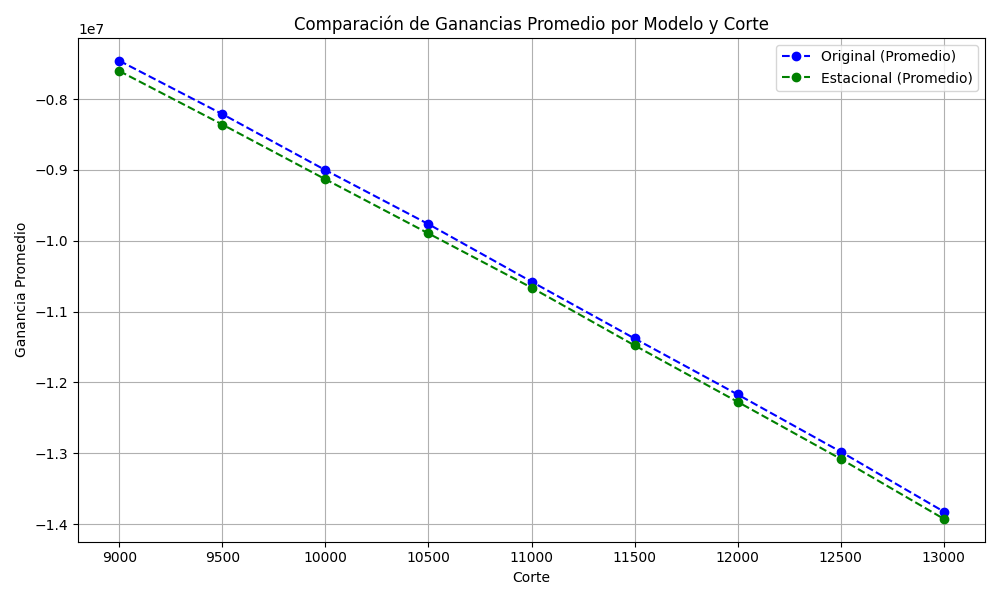
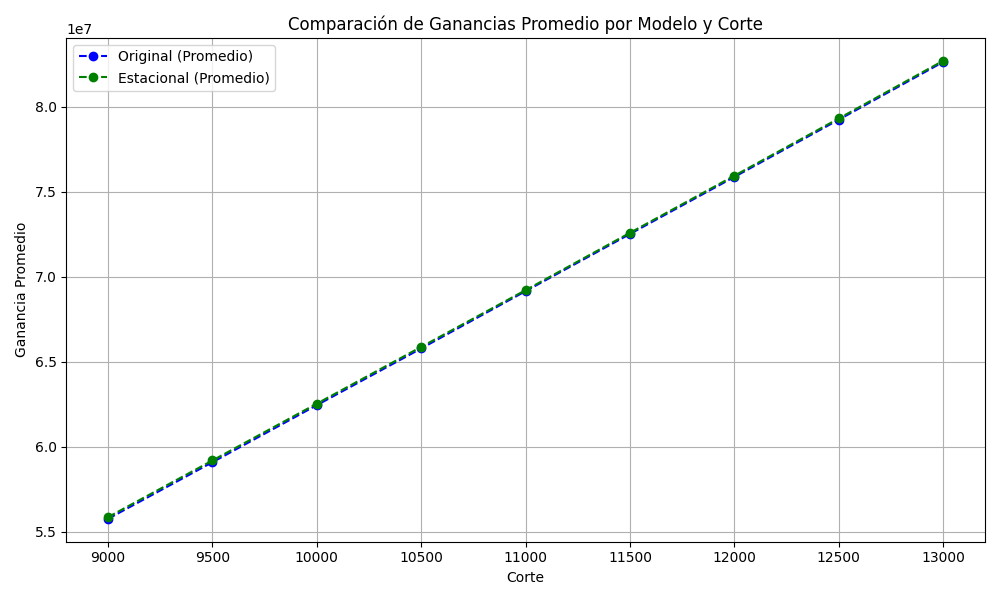
Experimento final

diff --git a/Experimento/j024_comparacion.py b/Experimento/j024_comparacion.py
@@ -3,12 +3,12 @@ import os
 import matplotlib.pyplot as plt
 
 # Rutas y parámetros
-input_dir = "/home/mili_irusta/buckets/b1/exp/KA4210/"  # Directorio con los cortes generados
-dataset_competencia = "/home/mili_irusta/buckets/b1/datasets/competencia_02.csv.gz"  # Archivo de datos reales
+input_dir = "/home/mili_irusta/buckets/b1/exp/KA4210/"
+dataset_competencia = "/home/mili_irusta/buckets/b1/datasets/competencia_02.csv.gz"
 experimento_dir = "/home/mili_irusta/buckets/b1/datasets/dmeyf2024/Experimento/"
-training_month = 202106  # Mes objetivo
-cortes = range(9000, 13001, 500)  # Cortes a evaluar
-semillas = [173717, 481129, 839203, 761081, 594017]  # Semillas utilizadas
+training_month = 202106
+cortes = range(9000, 13001, 500)
+semillas = [173717, 481129, 839203, 761081, 594017]
 
 # Cargar y filtrar los datos reales
 print("Cargando y procesando datos reales...")
@@ -19,81 +19,73 @@ datos_reales = datos_reales[["numero_de_cliente", "clase_real"]]
 print("Distribución de clase_real:")
 print(datos_reales["clase_real"].value_counts())
 
-# Función para calcular la ganancia con detalles de TP y FP
+# Función para calcular la ganancia
 def calcular_ganancia_detallada(data):
     TP = ((data["Predicted"] == 1) & (data["clase_real"] == 1)).sum()
     FP = ((data["Predicted"] == 1) & (data["clase_real"] == 0)).sum()
-    return TP * 7800 - FP * 2000, TP, FP
+    return TP * 273000 - FP * 7000, TP, FP
 
-# Inicializar estructuras para resultados promediados
-ganancias_original_promedio = {corte: [] for corte in cortes}
-ganancias_estacional_promedio = {corte: [] for corte in cortes}
-
-# Listar archivos en el directorio para verificar
-print("Archivos disponibles en el directorio:")
-disponibles = os.listdir(input_dir)
-print(disponibles)
+# Inicializar estructuras para almacenar resultados
+ganancias_semillas_original = {semilla: {corte: None for corte in cortes} for semilla in semillas}
+ganancias_semillas_estacional = {semilla: {corte: None for corte in cortes} for semilla in semillas}
 
 # Procesar cada corte para cada semilla
 for semilla in semillas:
     print(f"Procesando semilla: {semilla}")
     for corte in cortes:
         print(f"Procesando corte: {corte}")
-
-        # Construir nombres de archivos
         file_original = os.path.join(input_dir, f"KA4210_{corte}_original_seed_{semilla}.csv")
         file_estacional = os.path.join(input_dir, f"KA4210_{corte}_estacional_seed_{semilla}.csv")
 
-        # Verificar existencia de archivos
-        if not os.path.exists(file_original):
-            print(f"Archivo no encontrado: {file_original}")
-            continue
-        if not os.path.exists(file_estacional):
-            print(f"Archivo no encontrado: {file_estacional}")
+        if not os.path.exists(file_original) or not os.path.exists(file_estacional):
+            print(f"Archivos no encontrados para corte {corte} y semilla {semilla}")
             continue
 
-        # Cargar predicciones
         predicciones_original = pd.read_csv(file_original)
         predicciones_estacional = pd.read_csv(file_estacional)
 
-        # Unir predicciones con datos reales
         pred_original = predicciones_original.merge(datos_reales, on="numero_de_cliente")
         pred_estacional = predicciones_estacional.merge(datos_reales, on="numero_de_cliente")
 
-        # Calcular ganancias con detalles de TP y FP
-        ganancia_original, tp_original, fp_original = calcular_ganancia_detallada(pred_original)
-        ganancia_estacional, tp_estacional, fp_estacional = calcular_ganancia_detallada(pred_estacional)
+        ganancia_original, _, _ = calcular_ganancia_detallada(pred_original)
+        ganancia_estacional, _, _ = calcular_ganancia_detallada(pred_estacional)
 
-        # Agregar ganancias a la lista por semilla
-        ganancias_original_promedio[corte].append(ganancia_original)
-        ganancias_estacional_promedio[corte].append(ganancia_estacional)
+        ganancias_semillas_original[semilla][corte] = ganancia_original
+        ganancias_semillas_estacional[semilla][corte] = ganancia_estacional
 
-# Calcular promedios por corte, manejando casos donde no hay datos
-ganancias_original = [
-    sum(ganancias_original_promedio[corte]) / len(ganancias_original_promedio[corte])
-    if ganancias_original_promedio[corte] else 0
-    for corte in cortes
-]
-ganancias_estacional = [
-    sum(ganancias_estacional_promedio[corte]) / len(ganancias_estacional_promedio[corte])
-    if ganancias_estacional_promedio[corte] else 0
-    for corte in cortes
-]
+# Crear gráficos comparativos por semilla
+for semilla in semillas:
+    plt.figure(figsize=(10, 6))
+    ganancias_original = [
+        ganancias_semillas_original[semilla][corte] for corte in cortes if ganancias_semillas_original[semilla][corte] is not None
+    ]
+    ganancias_estacional = [
+        ganancias_semillas_estacional[semilla][corte] for corte in cortes if ganancias_semillas_estacional[semilla][corte] is not None
+    ]
+    plt.plot(cortes[:len(ganancias_original)], ganancias_original, label=f"Original (Semilla {semilla})", marker="o", linestyle="--")
+    plt.plot(cortes[:len(ganancias_estacional)], ganancias_estacional, label=f"Estacional (Semilla {semilla})", marker="o", linestyle="--")
+    plt.xlabel("Corte")
+    plt.ylabel("Ganancia")
+    plt.title(f"Comparación de Ganancias por Corte - Semilla {semilla}")
+    plt.legend()
+    plt.grid(True)
+    plt.tight_layout()
+    plt.savefig(os.path.join(experimento_dir, f"ganancias_semilla_{semilla}.png"))
+    plt.show()
 
-# Crear gráfico comparativo de ganancias promediadas
+# Calcular promedios por corte
+promedios_original = {corte: sum(ganancias_semillas_original[semilla][corte] for semilla in semillas if ganancias_semillas_original[semilla][corte] is not None) / len([semilla for semilla in semillas if ganancias_semillas_original[semilla][corte] is not None]) for corte in cortes}
+promedios_estacional = {corte: sum(ganancias_semillas_estacional[semilla][corte] for semilla in semillas if ganancias_semillas_estacional[semilla][corte] is not None) / len([semilla for semilla in semillas if ganancias_semillas_estacional[semilla][corte] is not None]) for corte in cortes}
+
+# Gráfico promedio
 plt.figure(figsize=(10, 6))
-plt.plot(cortes, ganancias_original, label="Original (Promedio)", marker="o", linestyle="--", color="blue")
-plt.plot(cortes, ganancias_estacional, label="Estacional (Promedio)", marker="o", linestyle="--", color="green")
+plt.plot(cortes, list(promedios_original.values()), label="Original (Promedio)", marker="o", linestyle="--", color="blue")
+plt.plot(cortes, list(promedios_estacional.values()), label="Estacional (Promedio)", marker="o", linestyle="--", color="green")
 plt.xlabel("Corte")
 plt.ylabel("Ganancia Promedio")
 plt.title("Comparación de Ganancias Promedio por Modelo y Corte")
 plt.legend()
 plt.grid(True)
 plt.tight_layout()
-
-# Guardar el gráfico
-output_graph = os.path.join(experimento_dir, "comparacion_ganancias_promedio.png")
-plt.savefig(output_graph)
+plt.savefig(os.path.join(experimento_dir, "ganancias_promedio.png"))
 plt.show()
-
-print(f"Gráfico guardado en: {output_graph}")
